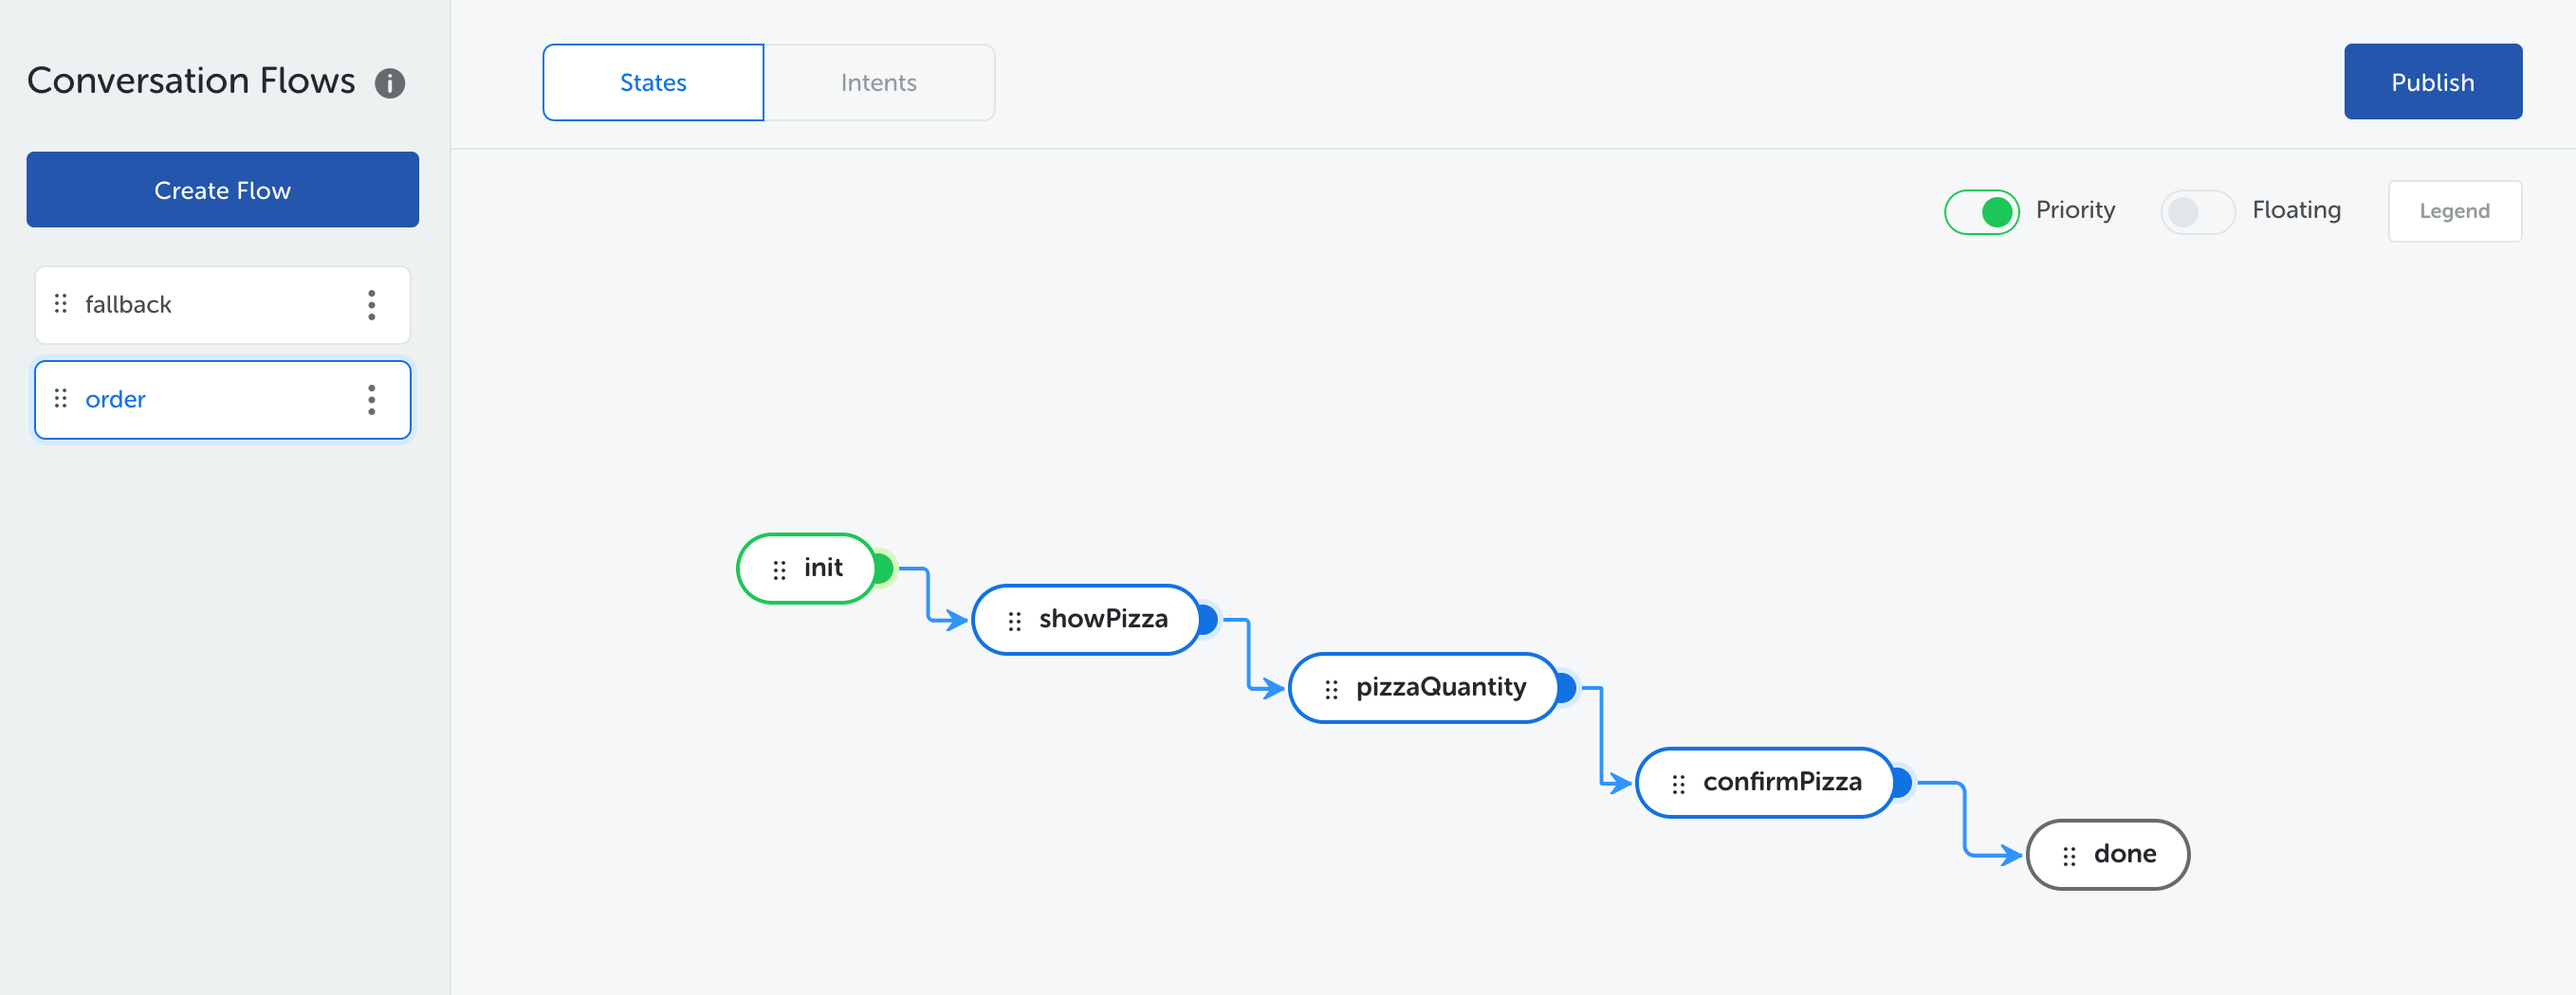
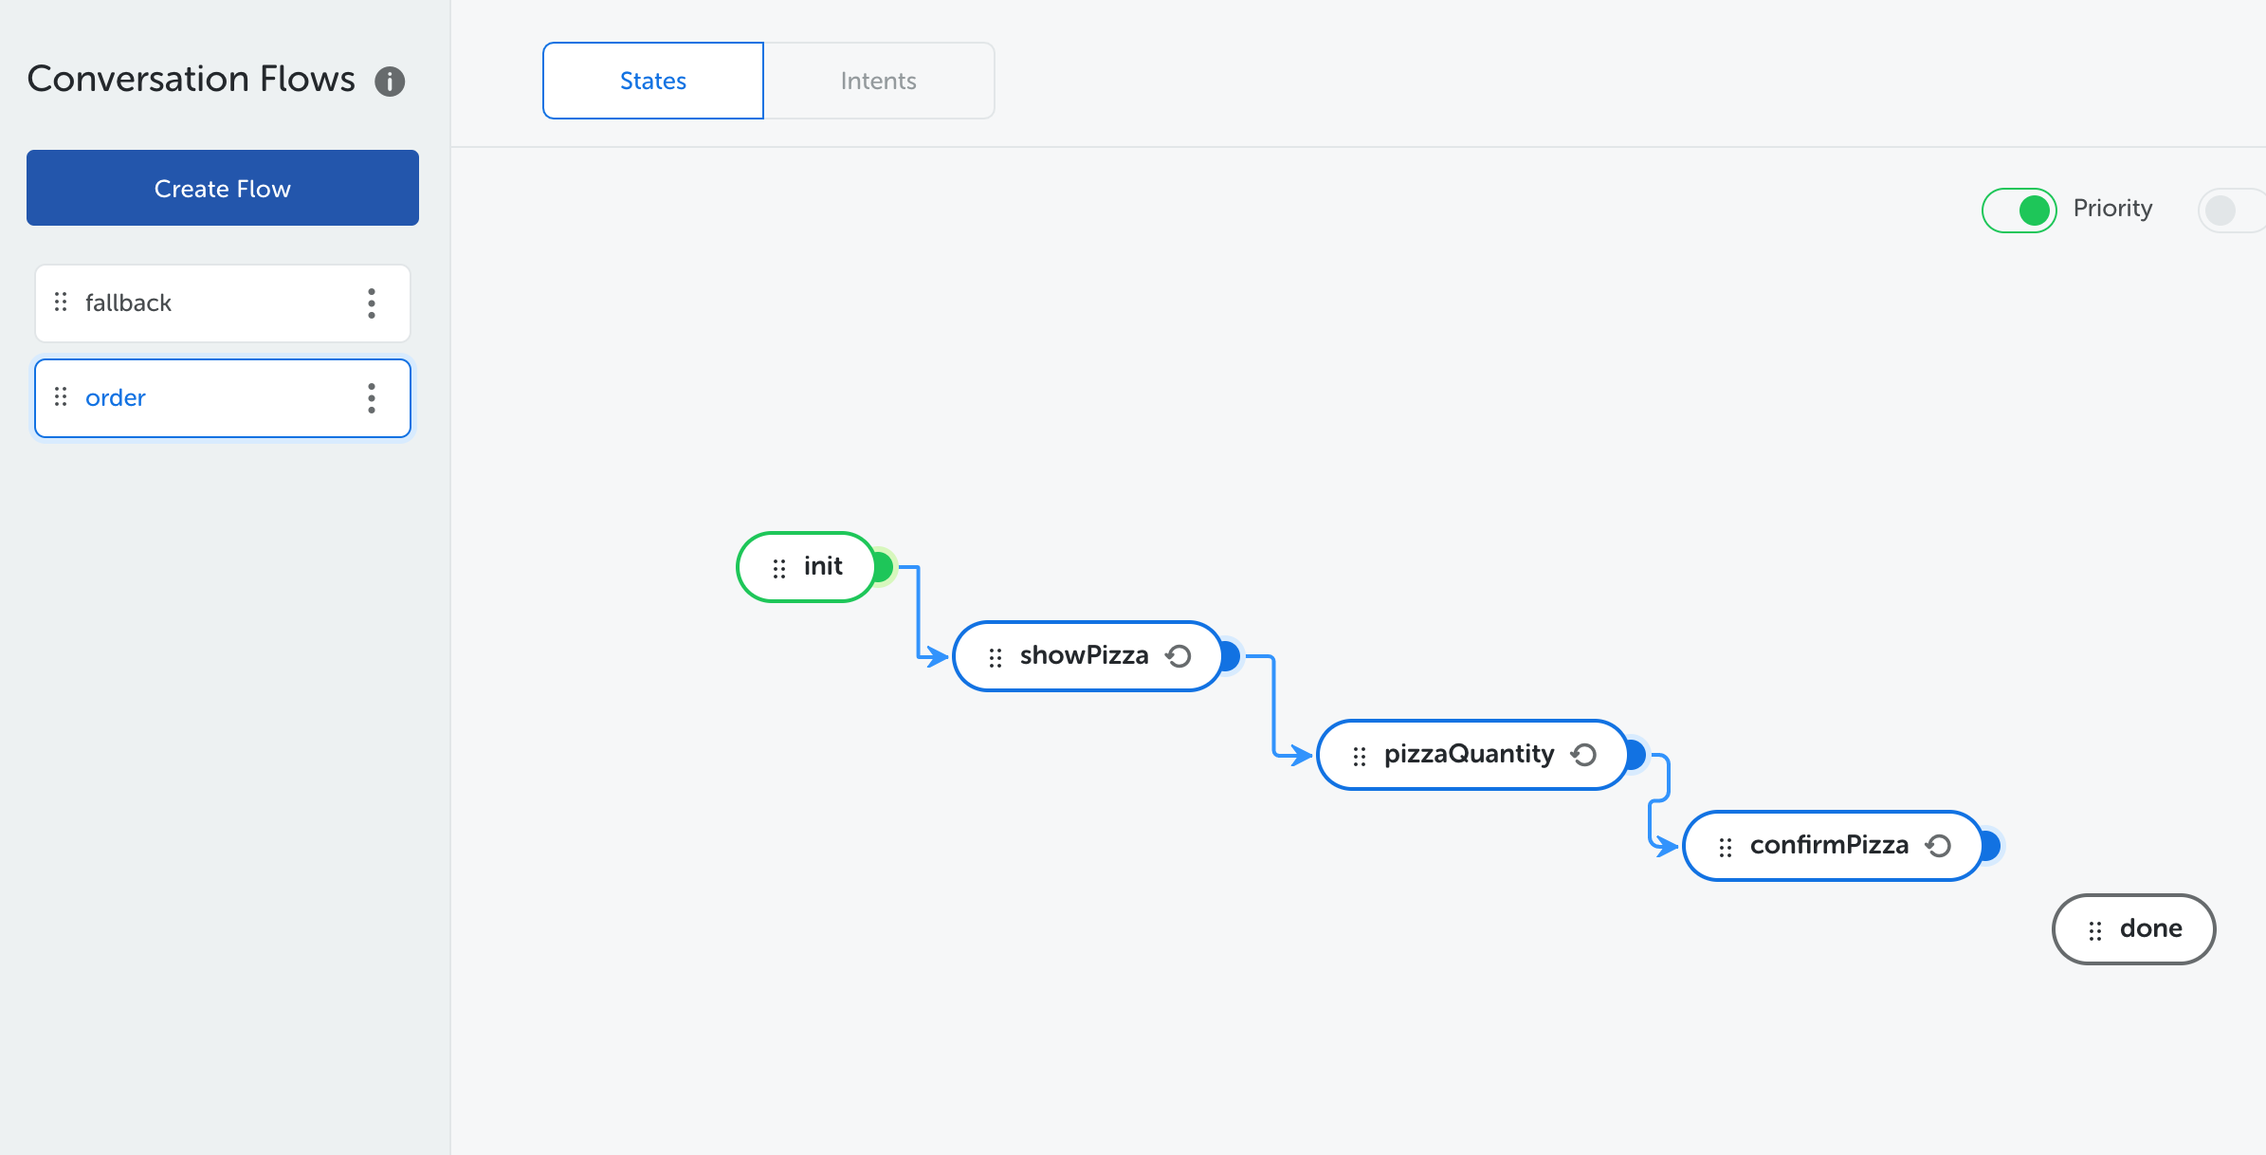
docs: change image and steps in bot studio tutorial

diff --git a/docs/tutorial/bot-studio.md b/docs/tutorial/bot-studio.md
@@ -179,10 +179,9 @@ Click “Create” to create the intent. Your screen should look like this
 
 ### Create a State Named init
 
-Every flow must have at least one state. Because we haven't created any state in `order` flow, we have to create one. Let's create a state called `init` . Set the state as initial and then enable self-transition.
+Every flow must have at least one state. Because we haven't created any state in `order` flow, we have to create one. Let's create a state called `init`.
 
 ![bse-31](/images/tutorial/bot-studio/bse-31.png)
-![bse-32](/images/tutorial/bot-studio/bse-32.png)
 
 Click “Create” button to create initial state.
 
@@ -323,6 +322,9 @@ In this step we will learn how to create “Ask quantity” state.
 In this step we will create `pizzaQuantity` state to handle order quantity. The type of action we will use is in this state is Text. Click on “+” button on `order` flow and fill the form as follows
 ![bse-54](/images/tutorial/bot-studio/bse-54.png)
 
+Then you have to make self-transition in Transition tab as follow
+![bse-54_1](/images/tutorial/bot-studio/bse-54_1.png)
+
 Result :
 ![bse-55](/images/tutorial/bot-studio/bse-55.png)
 
@@ -404,7 +406,7 @@ In `done` state, we will complete the order by saying thank you and end the conv
 
 ![bse-73](/images/tutorial/bot-studio/bse-73.png)
 
-Result:
+Also, don't forget to add self transition in the state. Result:
 ![bse-74](/images/tutorial/bot-studio/bse-74.png)
 
 ### Create a transition from confirmPizza to done
